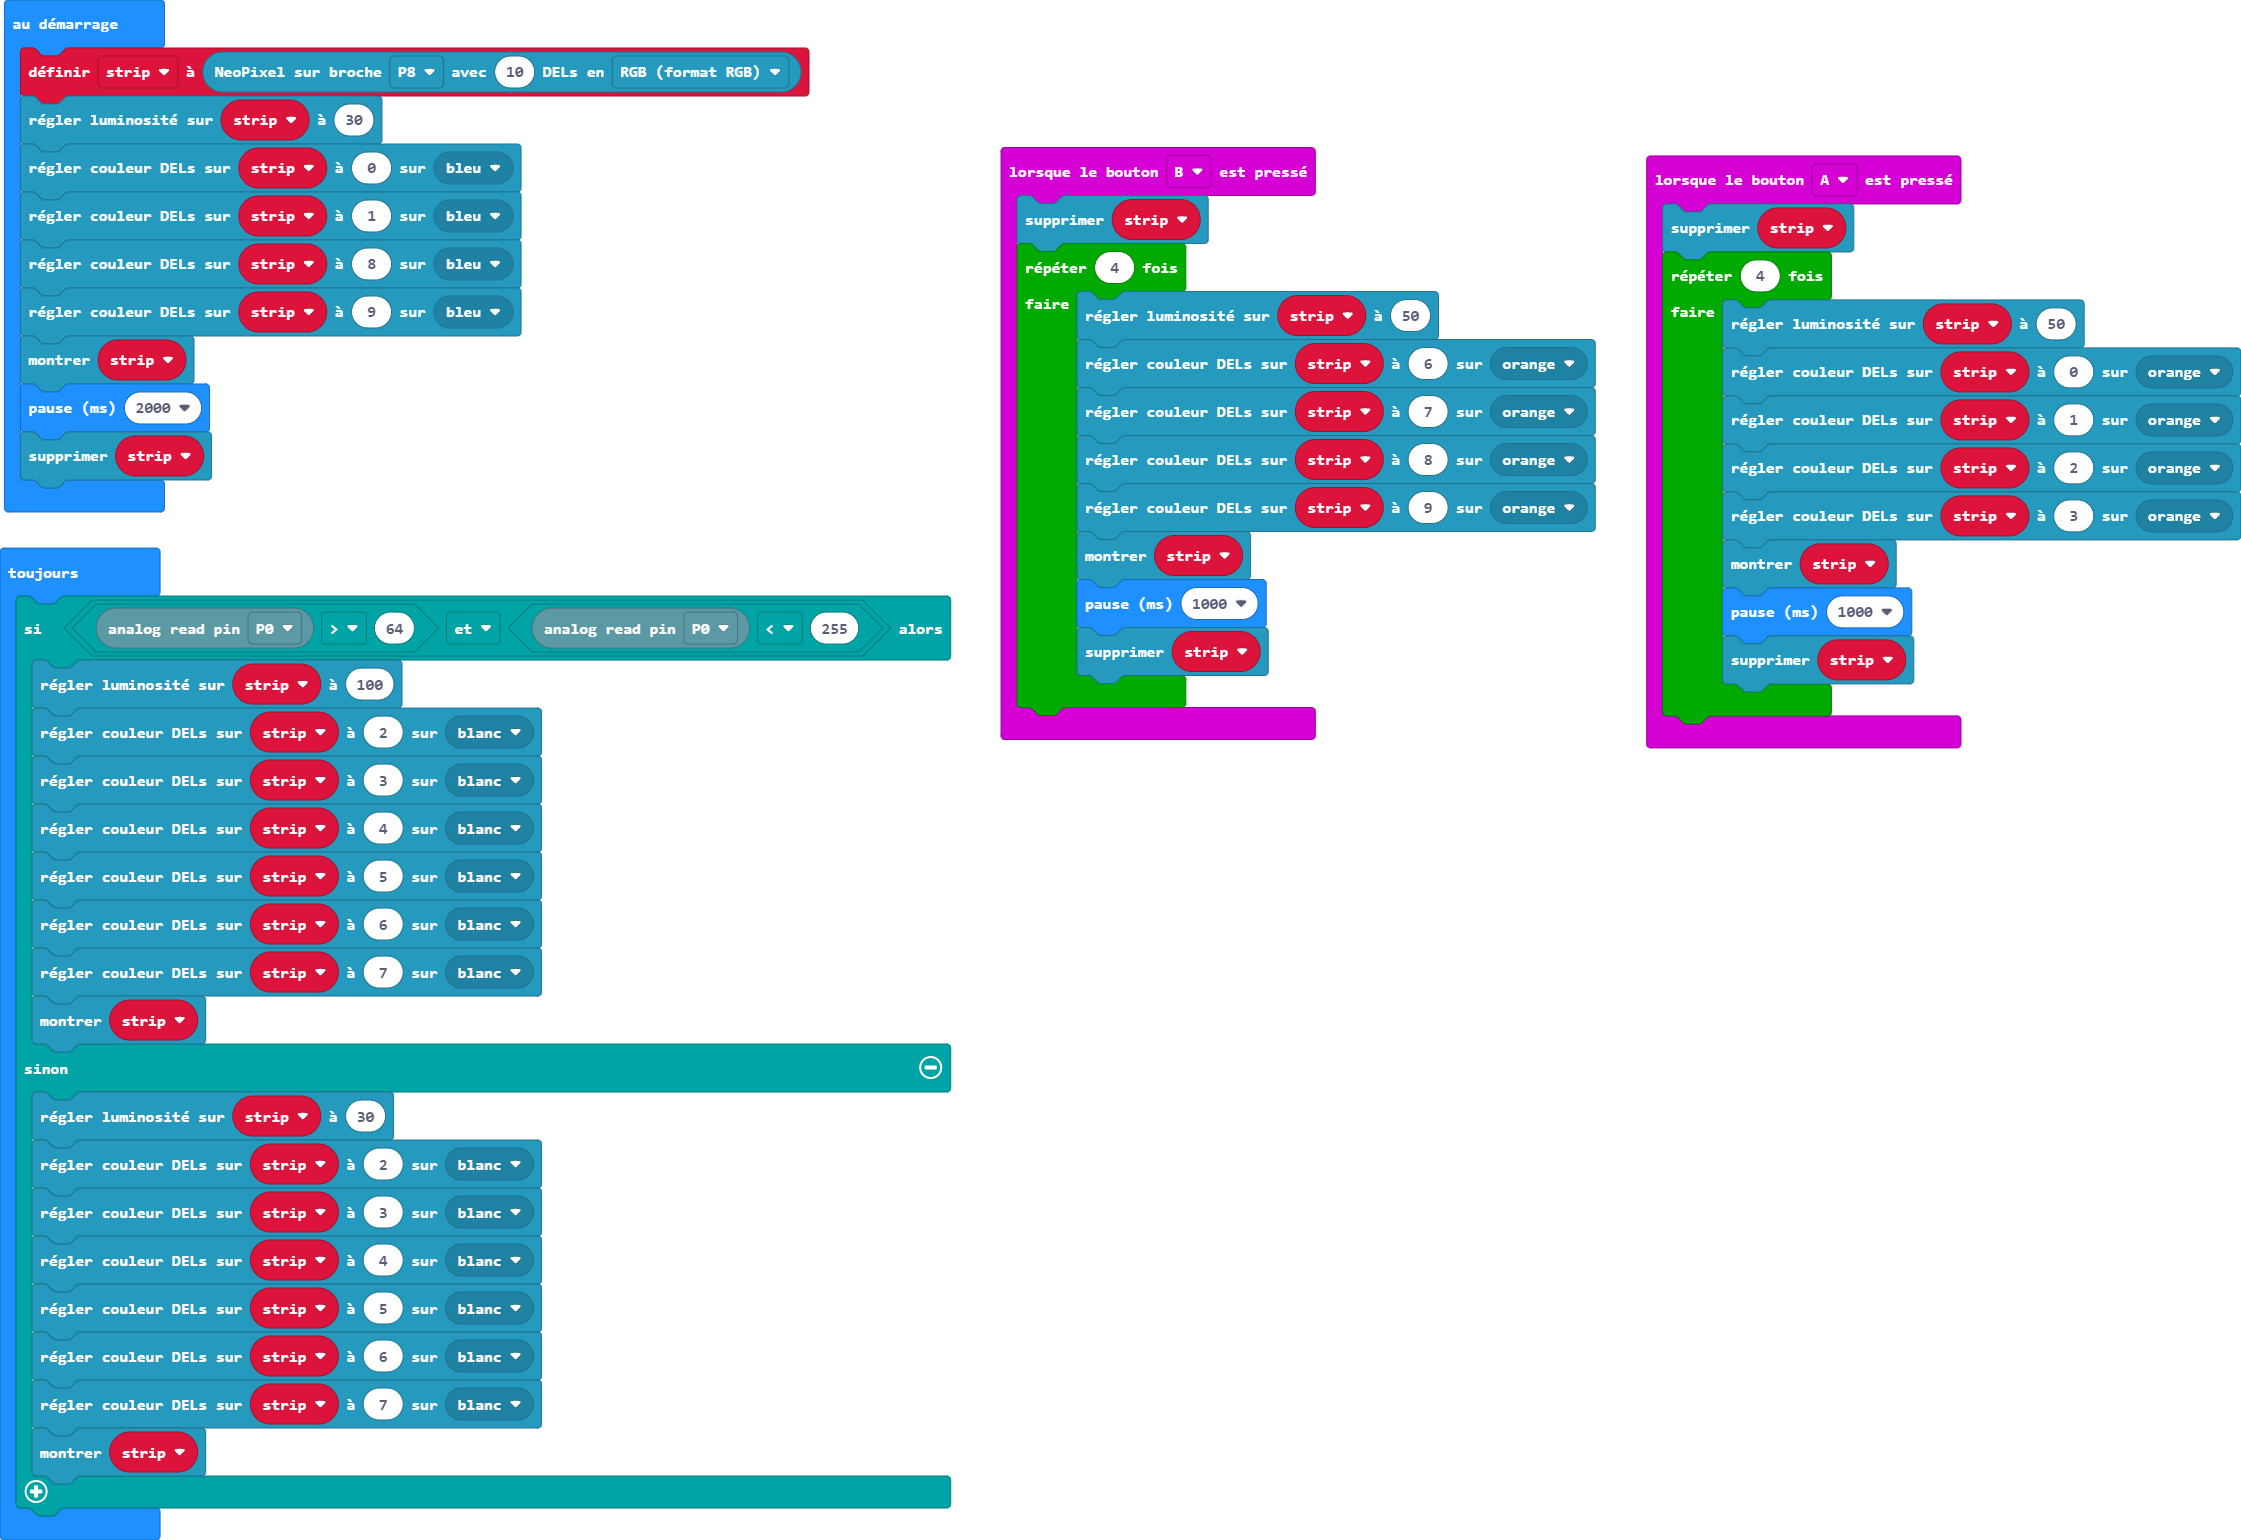
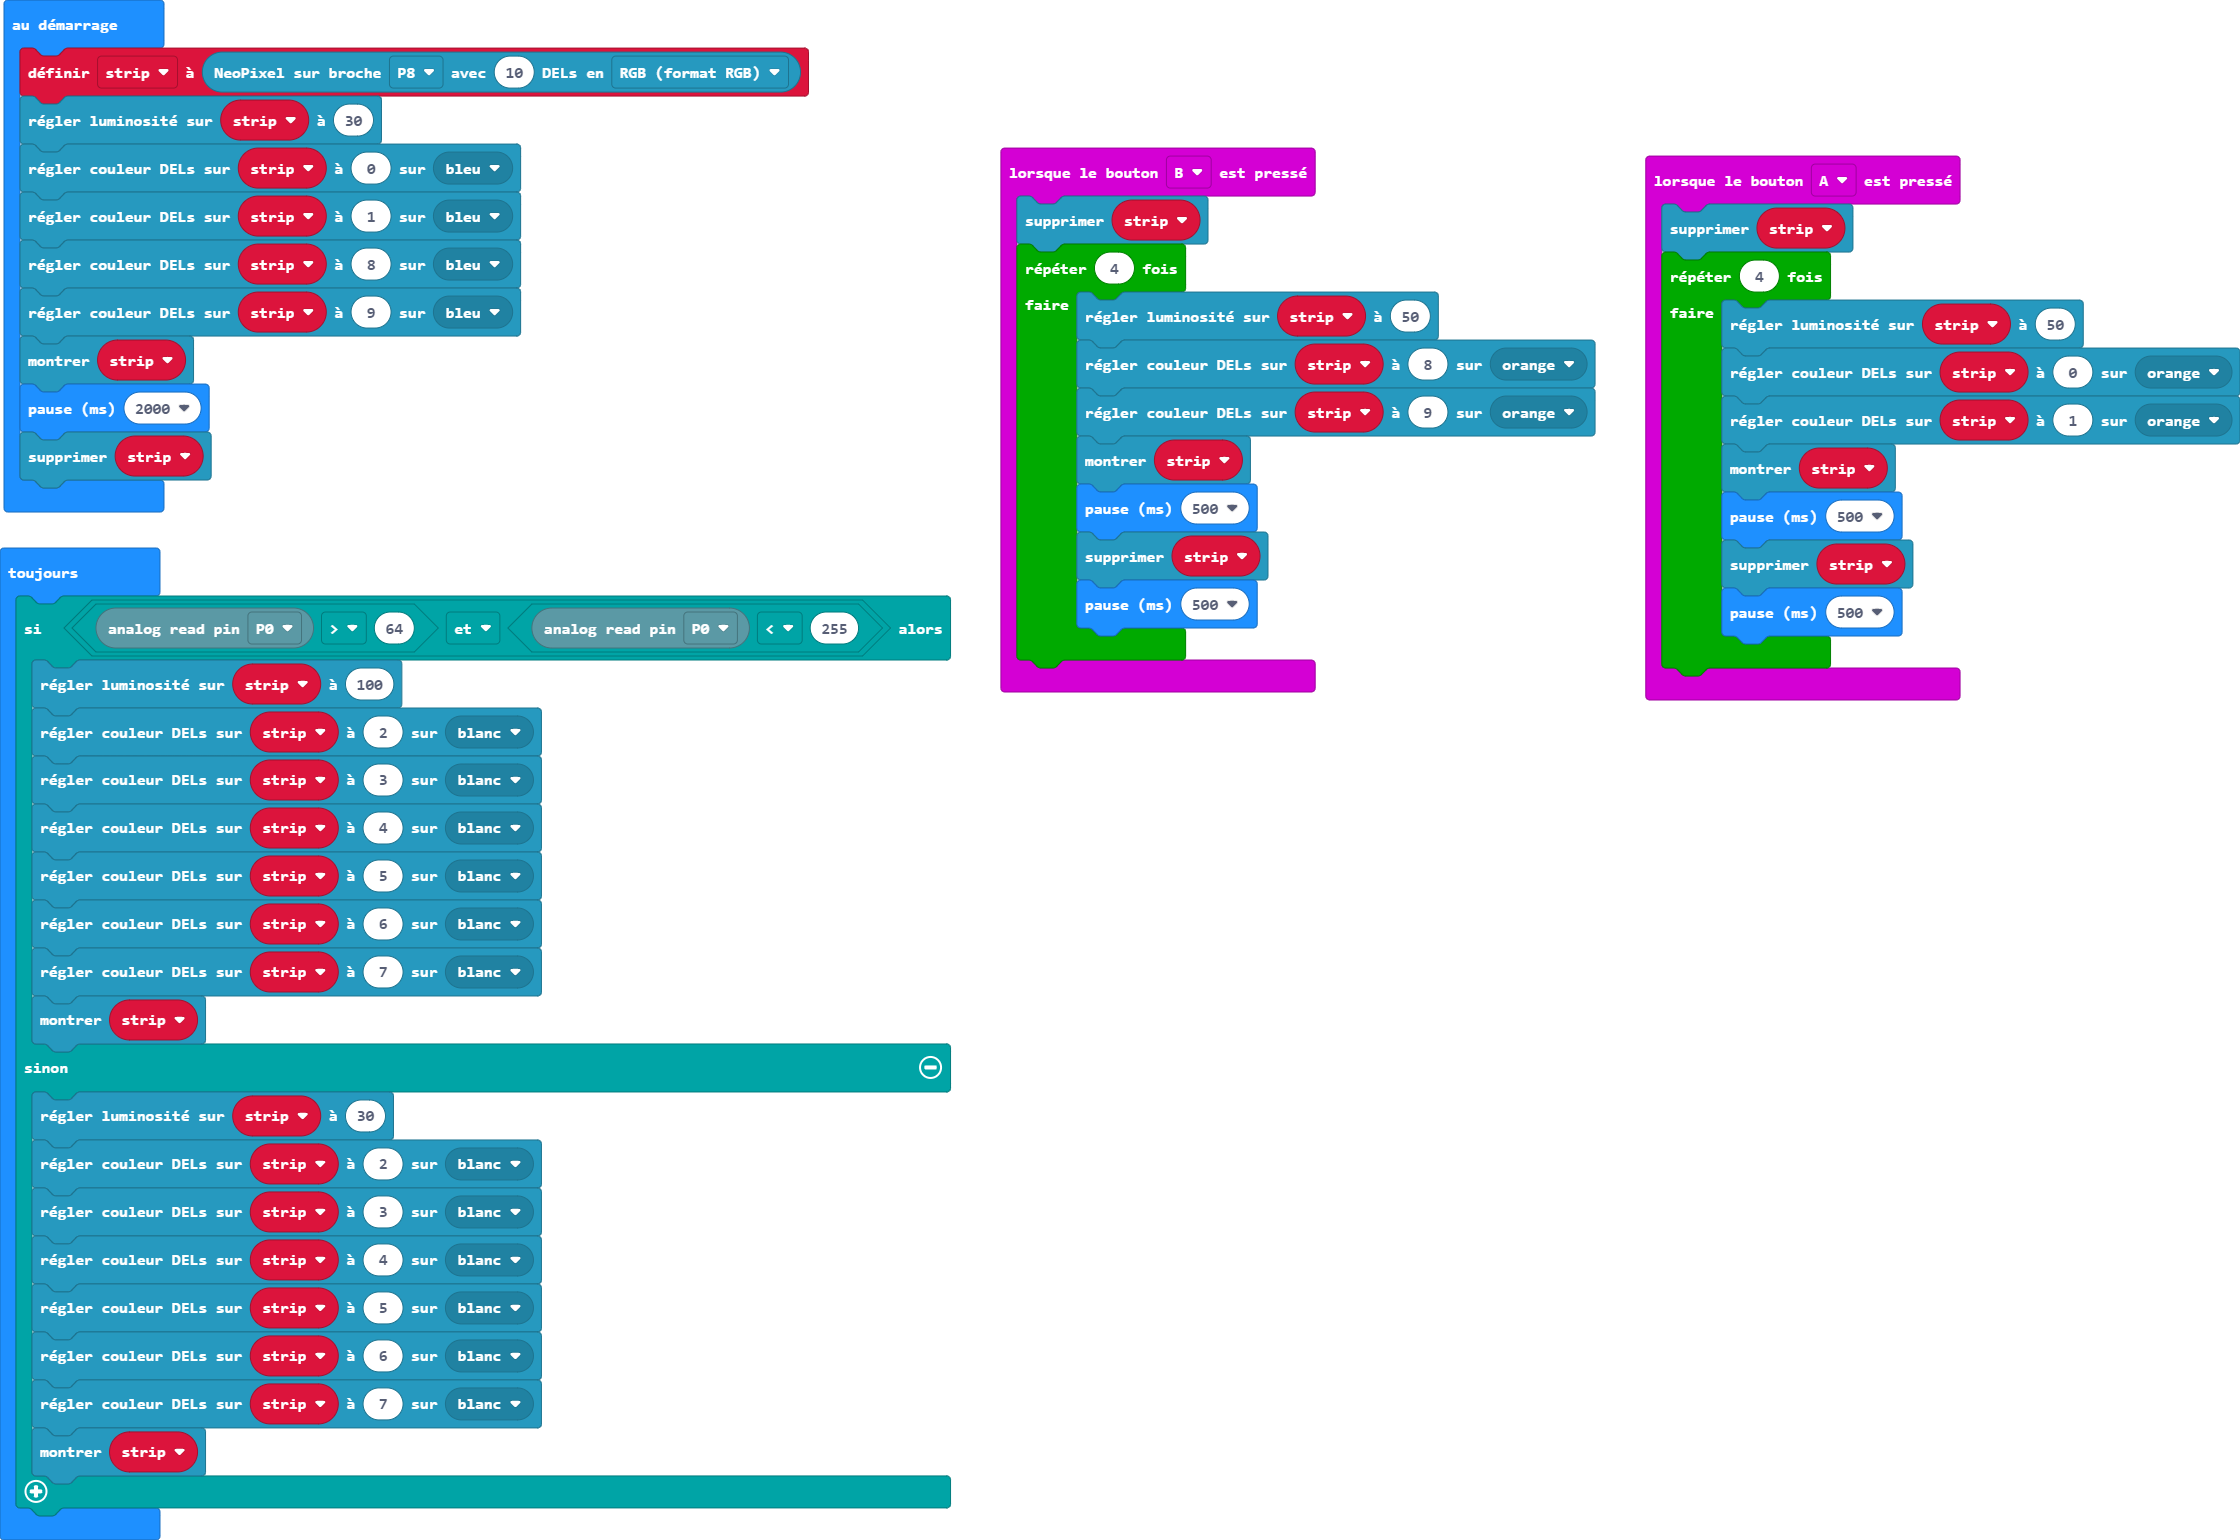
Mise à jour main.blocks, main.ts

diff --git a/main.ts b/main.ts
@@ -4,24 +4,22 @@ input.onButtonPressed(Button.A, function () {
         strip.setBrightness(50)
         strip.setPixelColor(0, neopixel.colors(NeoPixelColors.Orange))
         strip.setPixelColor(1, neopixel.colors(NeoPixelColors.Orange))
-        strip.setPixelColor(2, neopixel.colors(NeoPixelColors.Orange))
-        strip.setPixelColor(3, neopixel.colors(NeoPixelColors.Orange))
         strip.show()
-        basic.pause(1000)
+        basic.pause(500)
         strip.clear()
+        basic.pause(500)
     }
 })
 input.onButtonPressed(Button.B, function () {
     strip.clear()
     for (let index = 0; index < 4; index++) {
         strip.setBrightness(50)
-        strip.setPixelColor(6, neopixel.colors(NeoPixelColors.Orange))
-        strip.setPixelColor(7, neopixel.colors(NeoPixelColors.Orange))
         strip.setPixelColor(8, neopixel.colors(NeoPixelColors.Orange))
         strip.setPixelColor(9, neopixel.colors(NeoPixelColors.Orange))
         strip.show()
-        basic.pause(1000)
+        basic.pause(500)
         strip.clear()
+        basic.pause(500)
     }
 })
 let strip: neopixel.Strip = null
